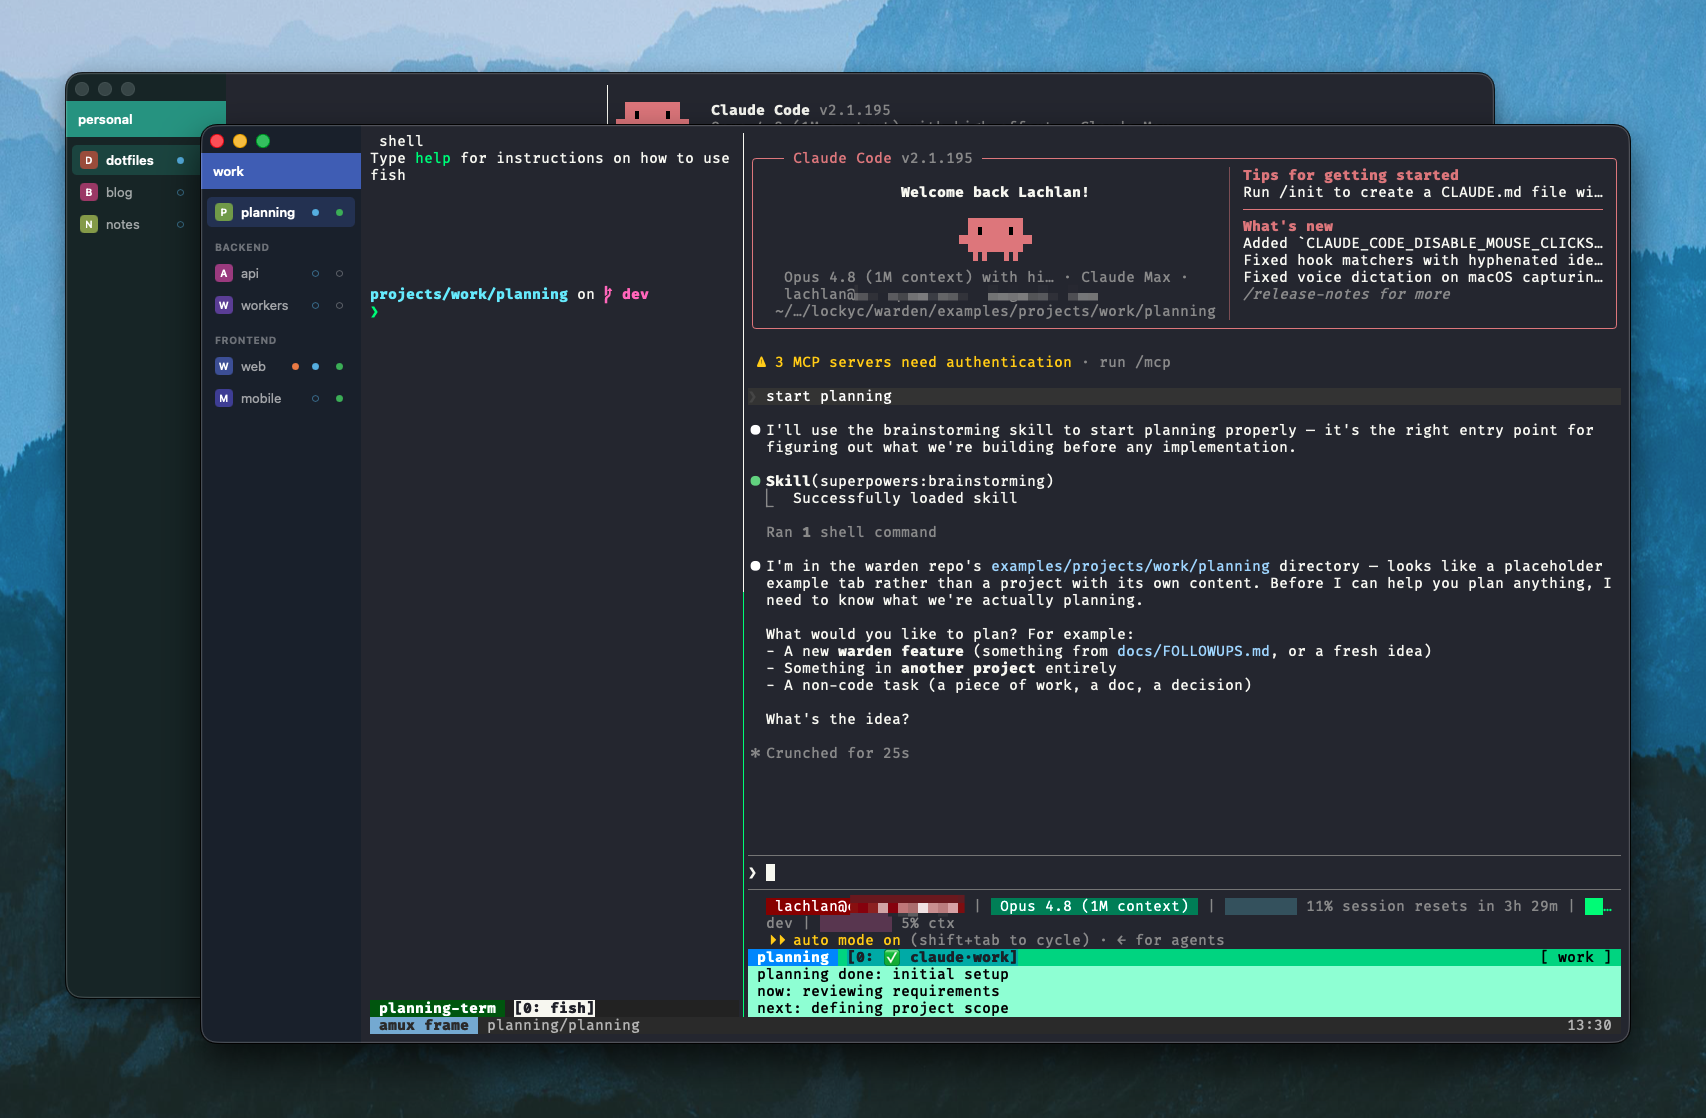
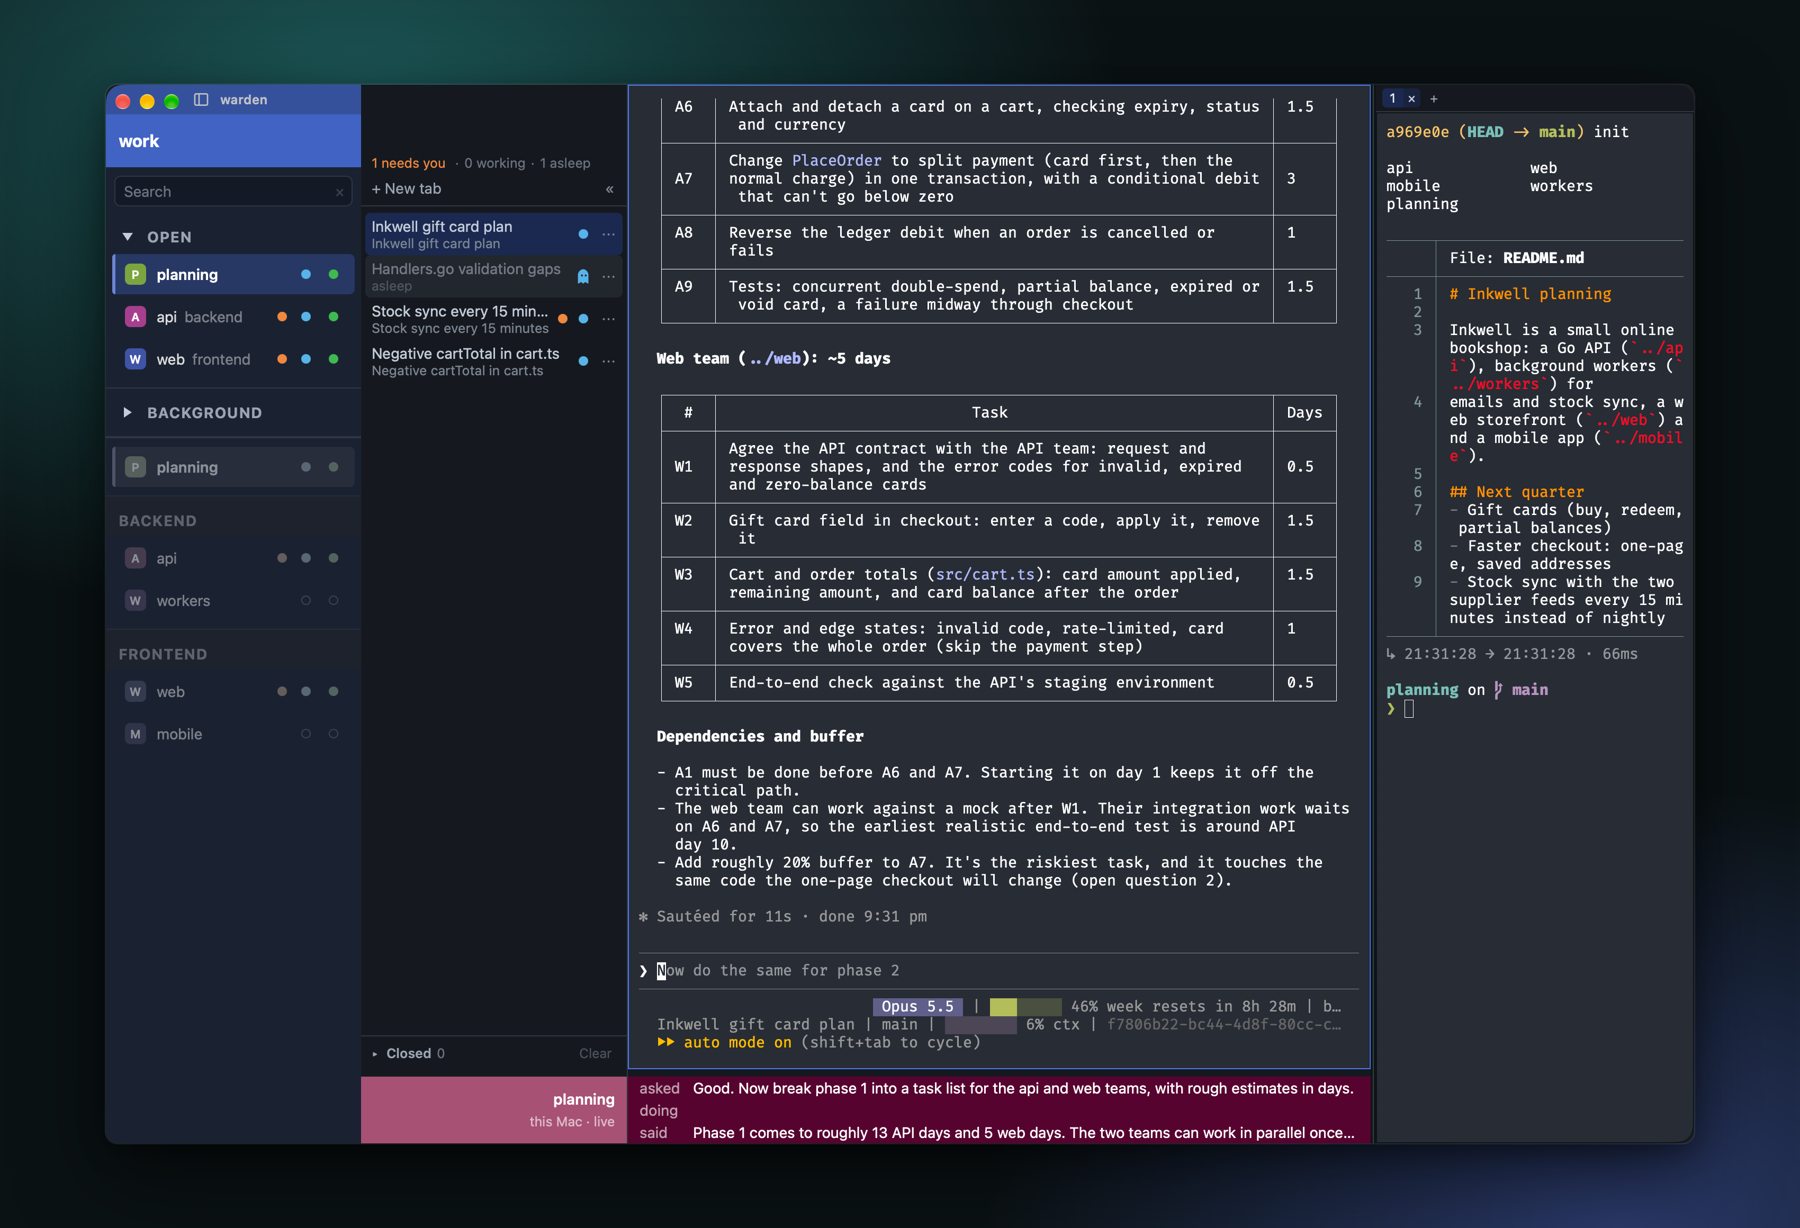
docs(readme): a new hero screenshot of the Rex layout
The old hero showed two windows of amux-in-tmux tabs. The new one is
the demo config's work window: grouped project tabs, the planning tab's
agent list with a sleeping agent and one waiting, an agent's plan with
the asked/doing/said summary, and the scratch column.

Recipe: a scratchpad copy of examples/config.toml (cmd claude-personal)
over a mock project tree outside any repo, the dev app launched with
WARDEN_CONFIG pointing at it, agents prompted with rex send, captured
with winshot, then composed on a backdrop with plate render: solid
patches over the Rex · local rows (this Mac's other sessions) and the
status line's account email, and plate shrink to 1800px wide.

diff --git a/README.md b/README.md
@@ -12,7 +12,7 @@
 ![Tauri](https://img.shields.io/badge/Tauri-24C8DB?logo=tauri&logoColor=white)
 [![License](https://img.shields.io/github/license/Lockyc/warden)](LICENSE)
 
-<img src="docs/screenshot.png" alt="warden running two windows (personal + work) — a curator-style sidebar with grouped project tabs (live/cold dots) over embedded libghostty terminals" width="900">
+<img src="docs/screenshot.png" alt="warden's work window: the sidebar of grouped project tabs, the planning tab's agent list (one needs you, one asleep), a Claude Code agent's plan in the main pane with the asked/doing/said summary below it, and a scratch shell column on the right" width="900">
 
 </div>
 
